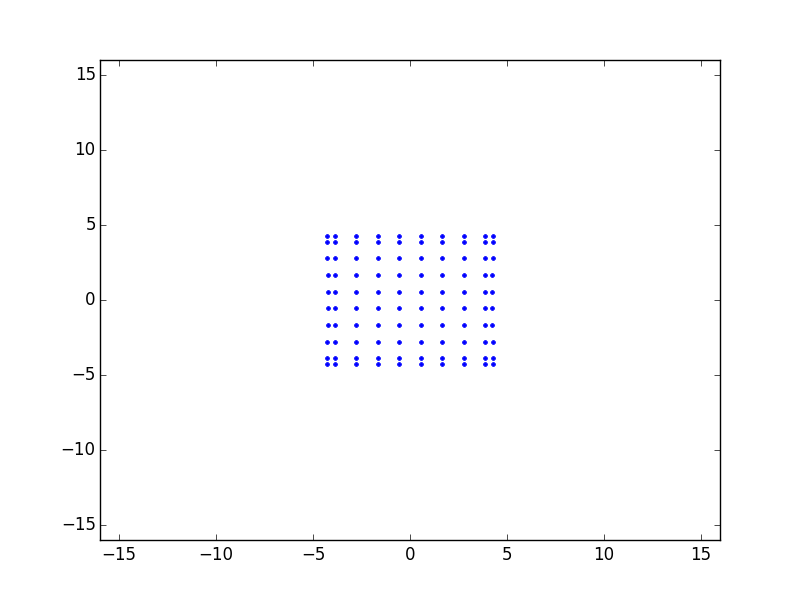
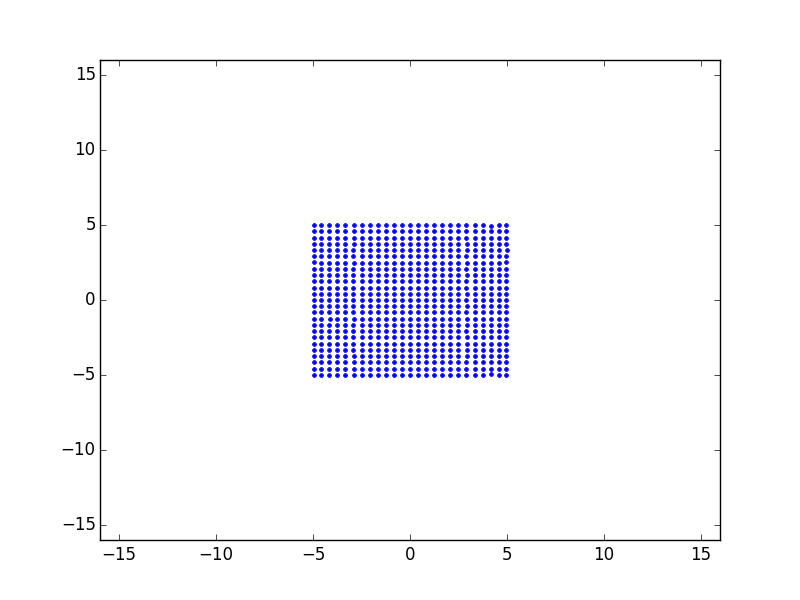
working on edge neigh's

Changed region(s): [[0.375, 0.36, 0.6562, 0.63]]

diff --git a/2DSPH.py b/2DSPH.py
@@ -18,6 +18,8 @@ n = 15 #sqrt num particles
 maxx = 5
 minx = -maxx
 
+num = (maxx+abs(minx)) #number of grid boxes
+
 #courant safety factor
 #csf= 0.05 #variable? up to 0.3. for var timestep
 
@@ -147,21 +149,29 @@ def find_neighbors(xr,yr,h,n):
     boxes = loc_particles(xr,yr);
     top, bottom, left, right = edge_boxes()
     checkboxes = []
-    num = (maxx+abs(minx))
     xs=0
     ys=1
 #    for i in range(2,3,1):
     for i in range(len(boxes)):
-        neighborBoxes = [i-(num+1),i-num,i-(num-1),i-1,i,i+1,i+(num-1),i+num,i+(num+1)]
-        for j in range(len(boxes[i])): #j is particle in question
-            for k in range(len(boxes)):
-                if k in neighborBoxes: #if one of the other boxes is a neighbor box
-                    checkboxes.append(k) #just a check to make sure the right boxes are identified
-                    for l in range(len(boxes[k])): #num particles in the neighbor box
-                        dist = sqrt((boxes[i][j][xs]-boxes[k][l][xs])**2+(boxes[i][j][ys]-boxes[k][l][ys])**2)
-                        if dist < 2.0*h: #or np.fabs(xr[i]-xr[j]): 
-                            neighb_loc[boxes[i][j][2],neighbs[boxes[i][j][2]]] = boxes[k][l][2]
-                            neighbs[boxes[i][j][2]]+=1 #i is the box, j is the particle, 2 gives its stuck 'number'                   
+        if i in top:
+            neighborBoxes=[i-1,i,i+1,i+(num-1),i+num,i+(num+1)]
+        if i in bottom:
+            neighborBoxes=[i-(num+1),i-num,i-(num-1),i-1,i,i+1]
+        if i in left:
+            neighborBoxes=[i-num,i-(num-1),i,i+1,i+num,i+(num+1)]
+        if i in right:
+            neighborBoxes=[]
+        else:
+            neighborBoxes = [i-(num+1),i-num,i-(num-1),i-1,i,i+1,i+(num-1),i+num,i+(num+1)]
+            for j in range(len(boxes[i])): #j is particle in question
+                for k in range(len(boxes)):
+                    if k in neighborBoxes: #if one of the other boxes is a neighbor box
+                        checkboxes.append(k) #just a check to make sure the right boxes are identified
+                        for l in range(len(boxes[k])): #num particles in the neighbor box
+                            dist = sqrt((boxes[i][j][xs]-boxes[k][l][xs])**2+(boxes[i][j][ys]-boxes[k][l][ys])**2)
+                            if dist < 2.0*h: #or np.fabs(xr[i]-xr[j]): 
+                                neighb_loc[boxes[i][j][2],neighbs[boxes[i][j][2]]] = boxes[k][l][2]
+                                neighbs[boxes[i][j][2]]+=1 #i is the box, j is the particle, 2 gives its 'number'                   
                         #elif np.fabs(yr[i]-yr[j]) < 2.0*h:
                         #    neighb_loc[boxes[i][j][2],neighbs[boxes[i][j][2]]] = boxes[k][l][2]
                         #    neighbs[boxes[i][j][2]]+=1                             
@@ -199,7 +209,6 @@ def edge_boxes(): #gives box numbers for edge boxes
 
 #make grid, determine which box each particle should be put in
 def loc_particles(xr,yr):
-    num = (maxx+abs(minx))
     boxes = [ [] for n in range(num*num) ]
     for i in range(len(xr)):
         xkey = int(floor(xr[i]))
@@ -212,12 +221,9 @@ def loc_particles(xr,yr):
             ykey = maxx-1
         if ykey <= minx:
             ykey = minx+1
-        #print xr,yr
         box = xkey- 10*ykey + 45 #this is specific to the maxx and minx values. don't mess with them.
         position=xr[i],yr[i],i
         boxes[box].append(position)
-        #boxes[box] = position
-        print boxes[box]
     return  boxes
 
 
@@ -226,7 +232,7 @@ def loc_particles(xr,yr):
 #get smoothed density
 def get_density(xr,yr,h,n,m,neighbs,neighb_loc):
     
-    avrho=np.ones(n*n) 
+    avrho=np.zeros(n*n) 
     for i in range(n*n):
         #for j in range(n):
         for j in range(neighbs[i]):
